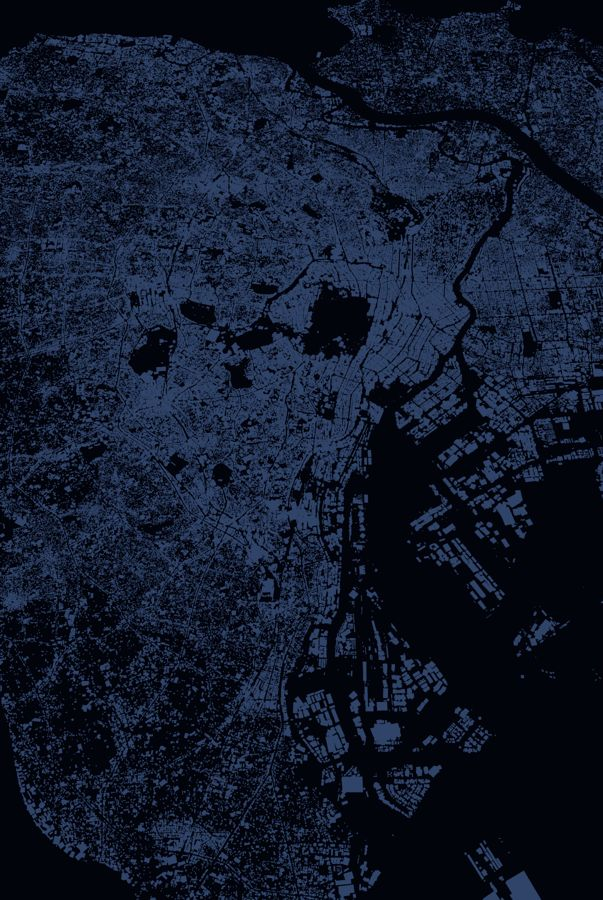
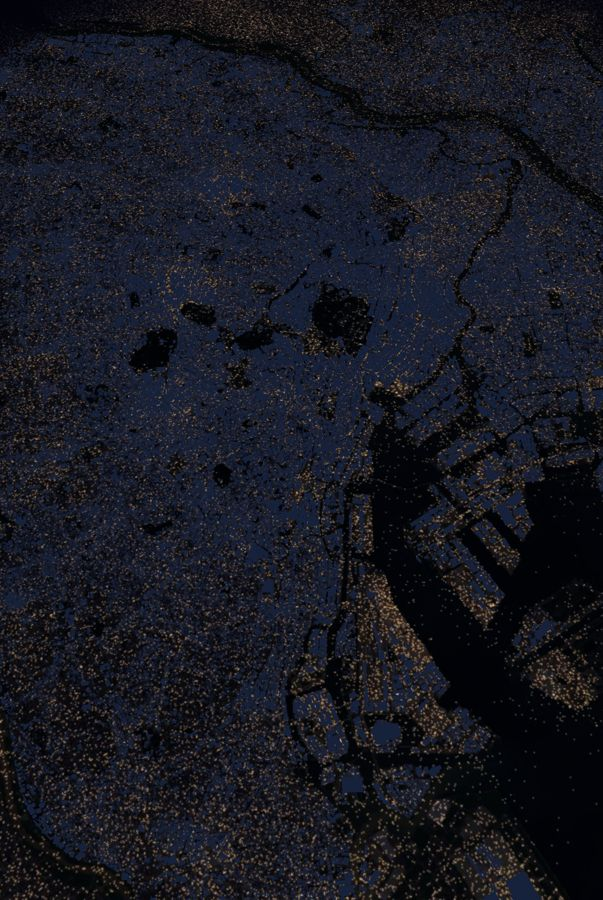
o-10 広域3Dの下に夜の航空写真の地面を敷き、建物を夜の色にそろえる

diff --git a/App/Views/WideGroundRenderer.swift b/App/Views/WideGroundRenderer.swift
@@ -1,0 +1,51 @@
+import Foundation
+import RealityKit
+import StarCore
+
+/// 23 区の広域 3D の下に敷く地面（夜の航空写真＋衛星の夜間光）。
+/// `WideGround.jpg` と、中心と大きさを書いた `WideGround.json` を読む。無ければ nil（暗い板だけになる）。
+@MainActor
+enum WideGroundRenderer {
+    private static let name = "WideGround"
+
+    private struct Info: Decodable {
+        let centerLatitude: Double
+        let centerLongitude: Double
+        /// 画像の 1 辺が覆う長さ [m]
+        let meters: Float
+    }
+
+    /// 渋谷の原点の空間（1 単位 = 1m、x が東、-z が北）に置いた板
+    static func ground() async -> ModelEntity? {
+        guard let image = Bundle.main.url(forResource: name, withExtension: "jpg"),
+              let json = Bundle.main.url(forResource: name, withExtension: "json"),
+              let info = try? JSONDecoder().decode(Info.self, from: Data(contentsOf: json)),
+              let texture = try? await TextureResource(contentsOf: image, options: .init(semantic: .color)),
+              let mesh = try? plane(half: info.meters / 2) else { return nil }
+        var sampler = MaterialParameters.Texture.Sampler()
+        sampler.modify { descriptor in
+            descriptor.minFilter = .linear
+            descriptor.magFilter = .linear
+            descriptor.mipFilter = .linear
+            // 斜めから見ても街明かりの点がつぶれにくくする
+            descriptor.maxAnisotropy = 16
+        }
+        var material = UnlitMaterial()
+        // 夜の暗さと街明かりは画像に焼き込んであるので、照明に関係なくそのまま出す
+        material.color = .init(tint: .white, texture: .init(texture, sampler: sampler))
+        let ground = ModelEntity(mesh: mesh, materials: [material])
+        let center = WideCity.localPosition(latitude: info.centerLatitude, longitude: info.centerLongitude)
+        ground.position = [Float(center.east), 0, -Float(center.north)]
+        return ground
+    }
+
+    /// 上を向いた正方形の板。画像の上が北、右が東（FarGroundRenderer と同じ決まり）
+    private static func plane(half: Float) throws -> MeshResource {
+        var descriptor = MeshDescriptor(name: "wideGround")
+        descriptor.positions = MeshBuffers.Positions([[-half, 0, half], [half, 0, half], [half, 0, -half], [-half, 0, -half]])
+        descriptor.normals = MeshBuffers.Normals(Array(repeating: [0, 1, 0], count: 4))
+        descriptor.textureCoordinates = MeshBuffers.TextureCoordinates([[0, 0], [1, 0], [1, 1], [0, 1]])
+        descriptor.primitives = .triangles([0, 1, 2, 0, 2, 3])
+        return try MeshResource.generate(from: [descriptor])
+    }
+}

diff --git a/App/Views/WideCityView.swift b/App/Views/WideCityView.swift
@@ -52,8 +52,10 @@ struct WideCityView: View {
     static let scale: Float = 1 / 100
     private static let rootName = "wideRoot"
     private static let groundSize: Float = 800
+    /// 航空写真の地面の高さ [m]（標高）
+    private static let photoDepth: Float = -3
     private static let background = Color(red: 0.02, green: 0.03, blue: 0.10)
-    static let source = "出典: 3D都市モデル（Project PLATEAU）東京都23区 LOD1・LOD2（CC BY 4.0）を加工"
+    static let source = "出典: 3D都市モデル（Project PLATEAU）東京都23区 LOD1・LOD2（CC BY 4.0）・国土地理院・EOG/Colorado School of Mines（VIIRS 夜間光、CC BY 4.0）を加工"
 
     @State private var lod = WideCityLOD()
     @State private var camera = WideCityCamera()
@@ -73,6 +75,13 @@ struct WideCityView: View {
             lod.root.scale = .init(repeating: Self.scale)
             root.addChild(lod.root)
             root.addChild(Self.ground())
+            if let photo = await WideGroundRenderer.ground() {
+                // 航空写真は、海抜 0m 付近の建物の足元より少し下に敷く（暗い板はさらに下）
+                photo.position.y = Self.photoDepth
+                photo.scale = .init(repeating: Self.scale)
+                photo.position *= Self.scale
+                root.addChild(photo)
+            }
             Self.addLights(to: root)
             root.name = Self.rootName
             WideCityPins.update(in: root, contexts: contexts, predictions: predictions, scale: Self.scale)
@@ -211,8 +220,8 @@ struct WideCityView: View {
     private static func ground() -> ModelEntity {
         let plane = ModelEntity(mesh: .generatePlane(width: groundSize, depth: groundSize),
                                 materials: [UnlitMaterial(color: .init(red: 0.03, green: 0.05, blue: 0.10, alpha: 1))])
-        // 海抜 0m 付近の区（江東・江戸川など）の建物の足元より少し下に敷く
-        plane.position.y = -5 * scale
+        // 航空写真の外側だけを埋める。写真と重なってちらつかないよう、十分に下げる
+        plane.position.y = -30 * scale
         return plane
     }
 

diff --git a/App/Views/WideCityRenderer.swift b/App/Views/WideCityRenderer.swift
@@ -72,11 +72,11 @@ final class WideCityRenderer {
     /// BuildingNightRenderer の夜の建物に寄せた色。テクスチャを使わず、照明の向きに関係なく形が読めるよう少し光らせる
     private static func nightMaterial() -> PhysicallyBasedMaterial {
         var material = PhysicallyBasedMaterial()
-        material.baseColor = .init(tint: .init(red: 0.40, green: 0.47, blue: 0.58, alpha: 1))
+        material.baseColor = .init(tint: .init(red: 0.24, green: 0.28, blue: 0.37, alpha: 1))
         material.roughness = .init(floatLiteral: 0.85)
         material.metallic = .init(floatLiteral: 0)
         material.emissiveColor = .init(color: .init(red: 0.30, green: 0.36, blue: 0.50, alpha: 1))
-        material.emissiveIntensity = 0.12
+        material.emissiveIntensity = 0.06
         material.faceCulling = .none
         return material
     }

diff --git a/task.md b/task.md
@@ -259,6 +259,8 @@
 | o-6 | 広域 3D の上に既存の地点ピンを置き、押すと詳細（既存の地点 3D）に入れる（関連: c・e） | 23 区の上で地点を選べ、詳細に移れる | P1 | ミスミ | ✅ |
 | o-7 | README に出典（PLATEAU・CC BY 4.0）と「23 区の広域 3D に対応」を書き、容量を記録する | README と画面の出典表示に反映されている | P1 | ミスミ | ⬜ |
 | o-8 | 【LOD2】PLATEAU の LOD2（屋根の形つき・テクスチャなし）3D Tiles から、区ごとに屋根の形つきの USDZ を作る。`python3 scripts/build_wide_ward.py <区コード> --lod 2` で `App/Resources/WideLOD2/Wide2_<区コード>.usdz` ができる。法線は入れない（アプリ側で面ごとに作られ、見た目は変わらない）。1 区 約 17MB 以下（三角形 130 万まで） | 23 区の `Wide2_*.usdz` が入り、各 17MB 以下（実測 7.8〜16.5MB、合計 302MB） | P1 | 糸長（Claude と実行） | ✅ |
+| o-9 | 広域 3D の建物に窓の明かりなどのテクスチャを貼る。`wide_ward_blender.py` で面ごとの UV（高さ・水平をメートル単位で繰り返す）を足して 23 区を作り直す（1 区 約 35 秒、合計 約 115MB の差分） | 広域 3D の建物の壁に窓の明かりが見え、容量が README に記録されている | P2 | | ⬜ |
+| o-10 | 広域 3D の下に夜の航空写真＋衛星夜間光の地面を敷き、建物の色を夜の建物（`BuildingNightRenderer`）に寄せる。地面は 4-11 の日比谷公園シーンの遠くの地面（中心から 20 km）を使う | 23 区の下に街明かりの地面が見える | P1 | ミスミ | ✅ |
 
 
 ---
